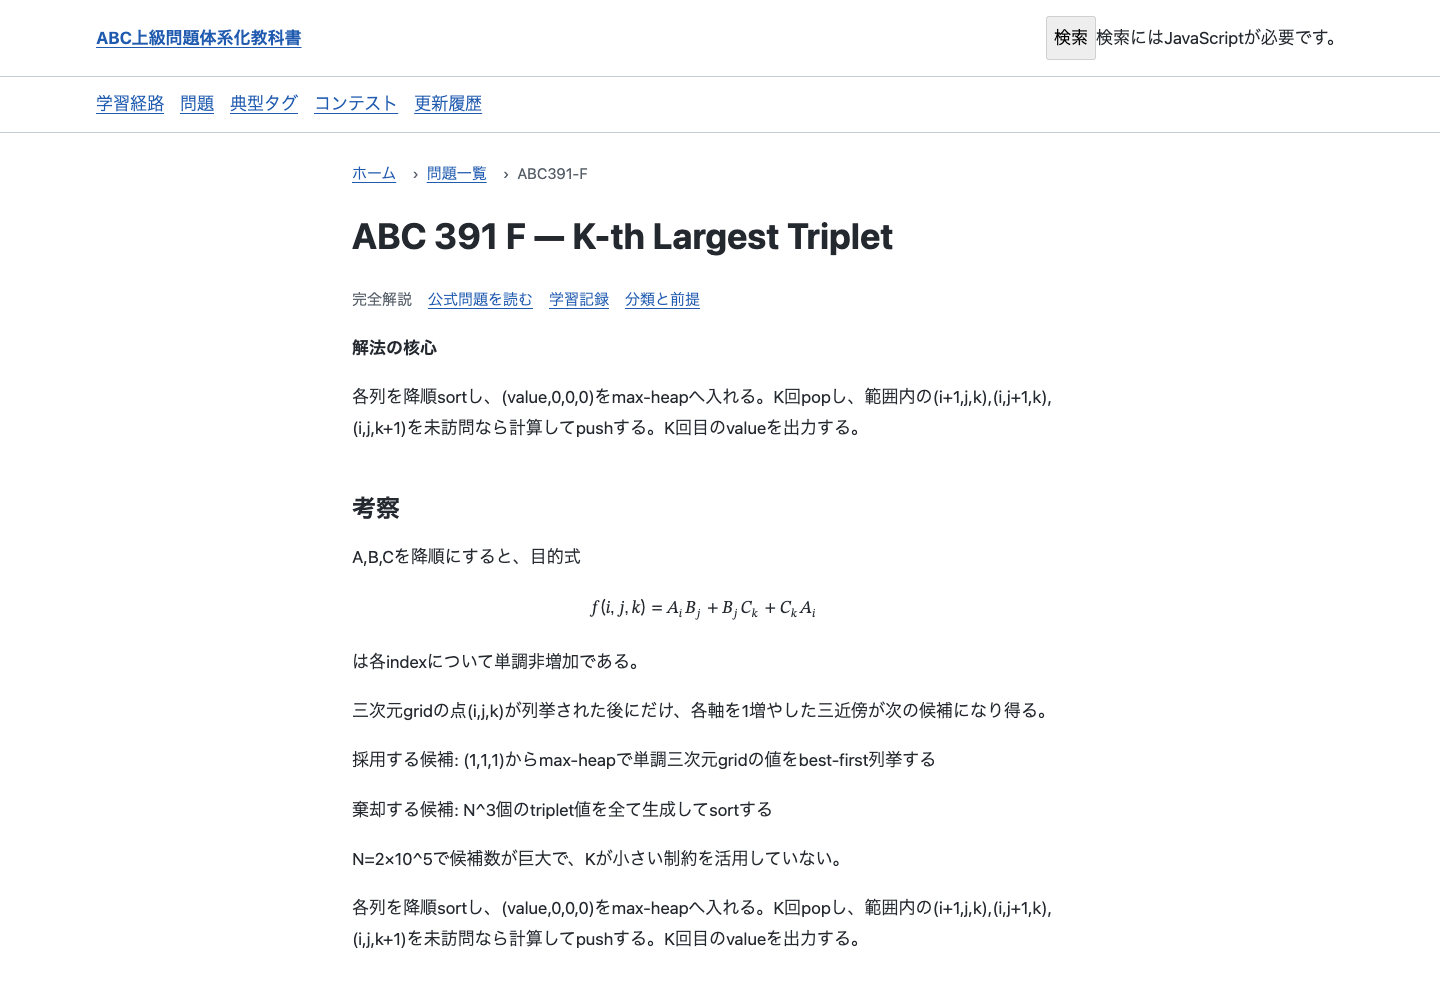
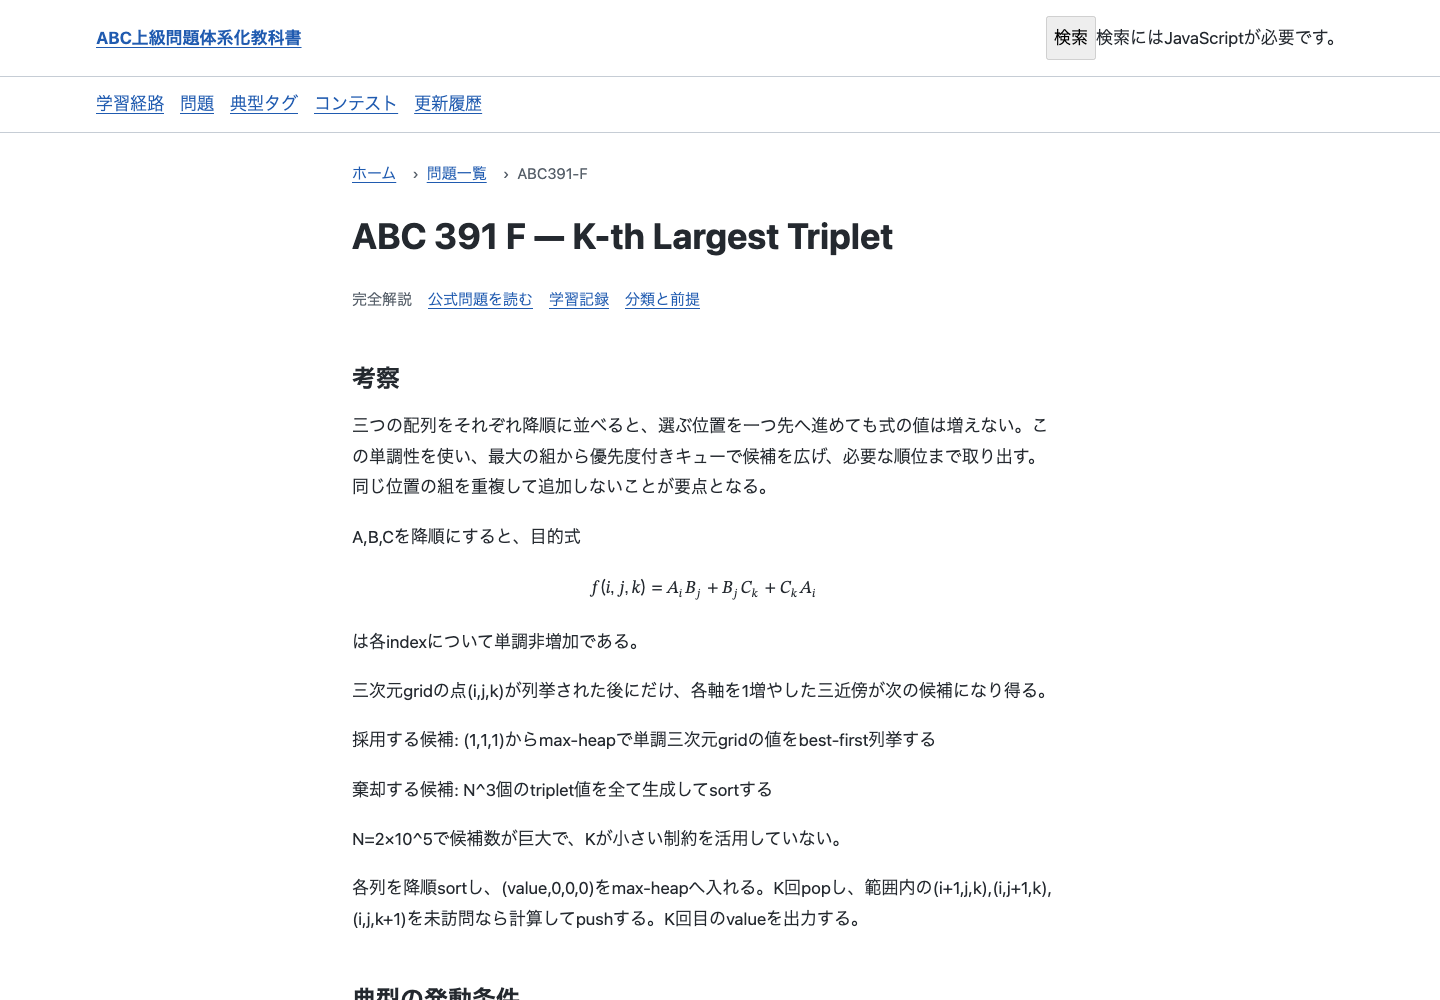
内部分析の自動表示をやめ、考察の導入を原稿で整える

Changed region(s): [[0.25, 0.589, 0.7188, 0.961], [0.25, 0.341, 0.7188, 0.589], [0.2188, 0.992, 0.375, 1.0]]

diff --git a/tests/e2e/problem-reading.spec.ts b/tests/e2e/problem-reading.spec.ts
@@ -19,8 +19,9 @@ for (const colorScheme of ['light', 'dark'] as const) {
       });
       const page = await context.newPage();
       await page.goto('./problems/abc391-f/');
-      await expect(page.locator('.problem-summary')).toContainText('各列を降順sort');
-      await expect(page.locator('.problem-summary')).toBeInViewport();
+      await expect(page.locator('#考察 + p')).toContainText('三つの配列をそれぞれ降順');
+      await expect(page.locator('#考察 + p')).toBeInViewport();
+      await expect(page.locator('.problem-summary')).toHaveCount(0);
       await expect(page.locator('#考察')).toBeVisible();
       await expect(page.locator('#problem-context')).not.toHaveAttribute('open', '');
       await expect(page.getByText('掲載状態: 収録済み')).not.toBeVisible();
@@ -72,7 +73,13 @@ test('uses the shared layout and record controls on other Problem IDs', async ({
   await page.setViewportSize({ width: 320, height: 844 });
   for (const id of ['abc213-g', 'abc466-g']) {
     await page.goto(`./problems/${id}/`);
-    await expect(page.locator('.problem-summary')).toBeVisible();
+    await expect(page.locator('#考察')).toBeVisible();
+    // An unedited manuscript starts with its own reasoning, without an analysis fallback.
+    await expect(page.locator('.problem-summary')).toHaveCount(0);
+    await expect(page.locator('#explanation .authored-content > h2').first()).toHaveAttribute(
+      'id',
+      '考察',
+    );
     await expect(page.locator('.problem-reading-links')).toContainText('完全解説');
     await page
       .getByRole('navigation', { name: '問題の学習' })
@@ -93,11 +100,50 @@ test('uses the shared layout and record controls on other Problem IDs', async ({
   }
 });
 
-test('keeps algorithm-summary notation as text rather than accidental links', async ({ page }) => {
-  await page.goto('./problems/abc321-g/');
-  await expect(page.locator('.problem-summary')).toContainText('g[S](M-m)!/M!');
-  await expect(page.locator('.problem-summary a')).toHaveCount(0);
-});
+for (const [id, introduction] of [
+  ['abc330-g', '転倒数を、確定位置同士・未確定位置同士・両者をまたぐ組の三つに分ける。'],
+  ['abc321-g', '連結成分数の期待値は、各頂点集合が一つの連結成分になる確率の和で求められる。'],
+] as const) {
+  for (const colorScheme of ['light', 'dark'] as const) {
+    for (const width of [390, 1440]) {
+      test(`starts ${id} with authored intuition at ${String(width)} px in ${colorScheme} without JS`, async ({
+        browser,
+        baseURL,
+      }) => {
+        if (!baseURL) throw new Error('Playwright baseURL is required.');
+        const context = await browser.newContext({
+          baseURL,
+          javaScriptEnabled: false,
+          colorScheme,
+          viewport: { width, height: width === 390 ? 844 : 1000 },
+        });
+        const page = await context.newPage();
+        await page.goto(`./problems/${id}/`);
+        await expect(page.locator('.problem-summary')).toHaveCount(0);
+        await expect(page.locator('#考察')).toBeInViewport();
+        const opening = page.locator('#考察 + p');
+        await expect(opening).toContainText(introduction);
+        // The whole introduction fits before detailed states and equations are introduced.
+        expect(await opening.evaluate((node) => node.getBoundingClientRect().bottom)).toBeLessThan(
+          width === 390 ? 844 : 1000,
+        );
+        await expect(opening.locator('math, code, a')).toHaveCount(0);
+        expect(await page.evaluate(() => document.documentElement.scrollWidth <= innerWidth)).toBe(
+          true,
+        );
+        await expect(page.locator('#正当性')).toBeVisible();
+        await expect(page.locator('#計算量と制約')).toBeVisible();
+        await expect(page.locator('#出典 + ul a')).toHaveCount(2);
+        if (process.env.PROBLEM_READING_CAPTURE === '1') {
+          const dir = 'docs/operations/problem-reading';
+          await mkdir(dir, { recursive: true });
+          await page.screenshot({ path: `${dir}/${id}-${String(width)}-${colorScheme}.png` });
+        }
+        await context.close();
+      });
+    }
+  }
+}
 
 for (const kind of ['similar', 'supplement'] as const) {
   test(`unpublished ${kind} body explains its scope and links to the full explanation without JS`, async ({
@@ -119,7 +165,6 @@ for (const kind of ['similar', 'supplement'] as const) {
       const $ = load(await response.text());
       $('#explanation .authored-content').html(reading.body);
       // This fixture exercises abbreviated prose in the common page shell; no catalog is changed.
-      $('.problem-summary').remove();
       $('.problem-reading-links > span').text(kind === 'similar' ? '差分解説' : '補足解説');
       await route.fulfill({ response, body: $.html() });
     });

diff --git a/tests/unit/problem-reading.test.ts b/tests/unit/problem-reading.test.ts
@@ -5,7 +5,7 @@ import { publicProjection } from '../../src/lib/catalog/public-catalog.js';
 import { renderPublicDocument } from '../../src/lib/catalog/render-public-document.js';
 
 describe('problem reading order', () => {
-  for (const id of ['abc391-f', 'abc213-g', 'abc466-g']) {
+  for (const id of ['abc391-f', 'abc330-g', 'abc321-g', 'abc213-g', 'abc466-g']) {
     it(`preserves every paragraph, anchor, link and equation when moving classification: ${id}`, async () => {
       const document = publicProjection.problemDocuments.get(id);
       if (!document) throw new Error(id);

diff --git a/src/content/docs/problems/hybrid/outcome-reorder-counting-contributions/outcome-reorder-counting-contributions-shard-003/abc330-g.md b/src/content/docs/problems/hybrid/outcome-reorder-counting-contributions/outcome-reorder-counting-contributions-shard-003/abc330-g.md
@@ -21,6 +21,8 @@ authoringUnit: {"problemId":"abc330-g","docPath":"src/content/docs/problems/hybr
 
 ## 考察
 
+転倒数を、確定位置同士・未確定位置同士・両者をまたぐ組の三つに分ける。二乗を展開して各項の期待値を求めれば、補完を一つずつ列挙せずに総和を計算できる。ただし、位置を共有する転倒の組は独立ではないため、その依存を数える必要がある。
+
 inversion数I=Σ_{l<r}1[P_l>P_r]なので、I²はorderedなindex-pair2本のindicator積の和へ展開できる。
 
 未確定位置数をq、未使用値を昇順u_1..u_qとすると、補完は未使用値の順位の一様ランダム順列πを未確定位置へ割り当てることと同じで、総和はq!倍の期待値になる。

diff --git a/src/content/docs/problems/mathematics/outcome-count-labeled-structures-by-components/outcome-count-labeled-structures-by-components-shard-001/abc321-g.md b/src/content/docs/problems/mathematics/outcome-count-labeled-structures-by-components/outcome-count-labeled-structures-by-components-shard-001/abc321-g.md
@@ -20,6 +20,8 @@ authoringUnit: {"problemId":"abc321-g","docPath":"src/content/docs/problems/math
 
 ## 考察
 
+連結成分数の期待値は、各頂点集合が一つの連結成分になる確率の和で求められる。集合内で完結する配線の総数から、複数の成分に分かれる配線を引こう。特定の一頂点を含む成分に着目すると、重複なく場合分けして部分集合DPを組める。
+
 最終graphの各connected componentの頂点集合Sについてindicatorを置くと、component数は非空Sのindicator和なので期待値の線形性を使える。
 
 S内のred端子数とblue端子数が異なればSだけでcableを閉じられず、等しくmならS内端子の全matching数f(S)はm!である。

diff --git a/src/content/docs/problems/data-structures/outcome-enumerate-frontier-best-first/outcome-enumerate-frontier-best-first-shard-001/abc391-f.md b/src/content/docs/problems/data-structures/outcome-enumerate-frontier-best-first/outcome-enumerate-frontier-best-first-shard-001/abc391-f.md
@@ -12,6 +12,8 @@ authoringUnit: {"problemId":"abc391-f","docPath":"src/content/docs/problems/data
 
 ## 考察
 
+三つの配列をそれぞれ降順に並べると、選ぶ位置を一つ先へ進めても式の値は増えない。この単調性を使い、最大の組から優先度付きキューで候補を広げ、必要な順位まで取り出す。同じ位置の組を重複して追加しないことが要点となる。
+
 A,B,Cを降順にすると、目的式
 
 $$
